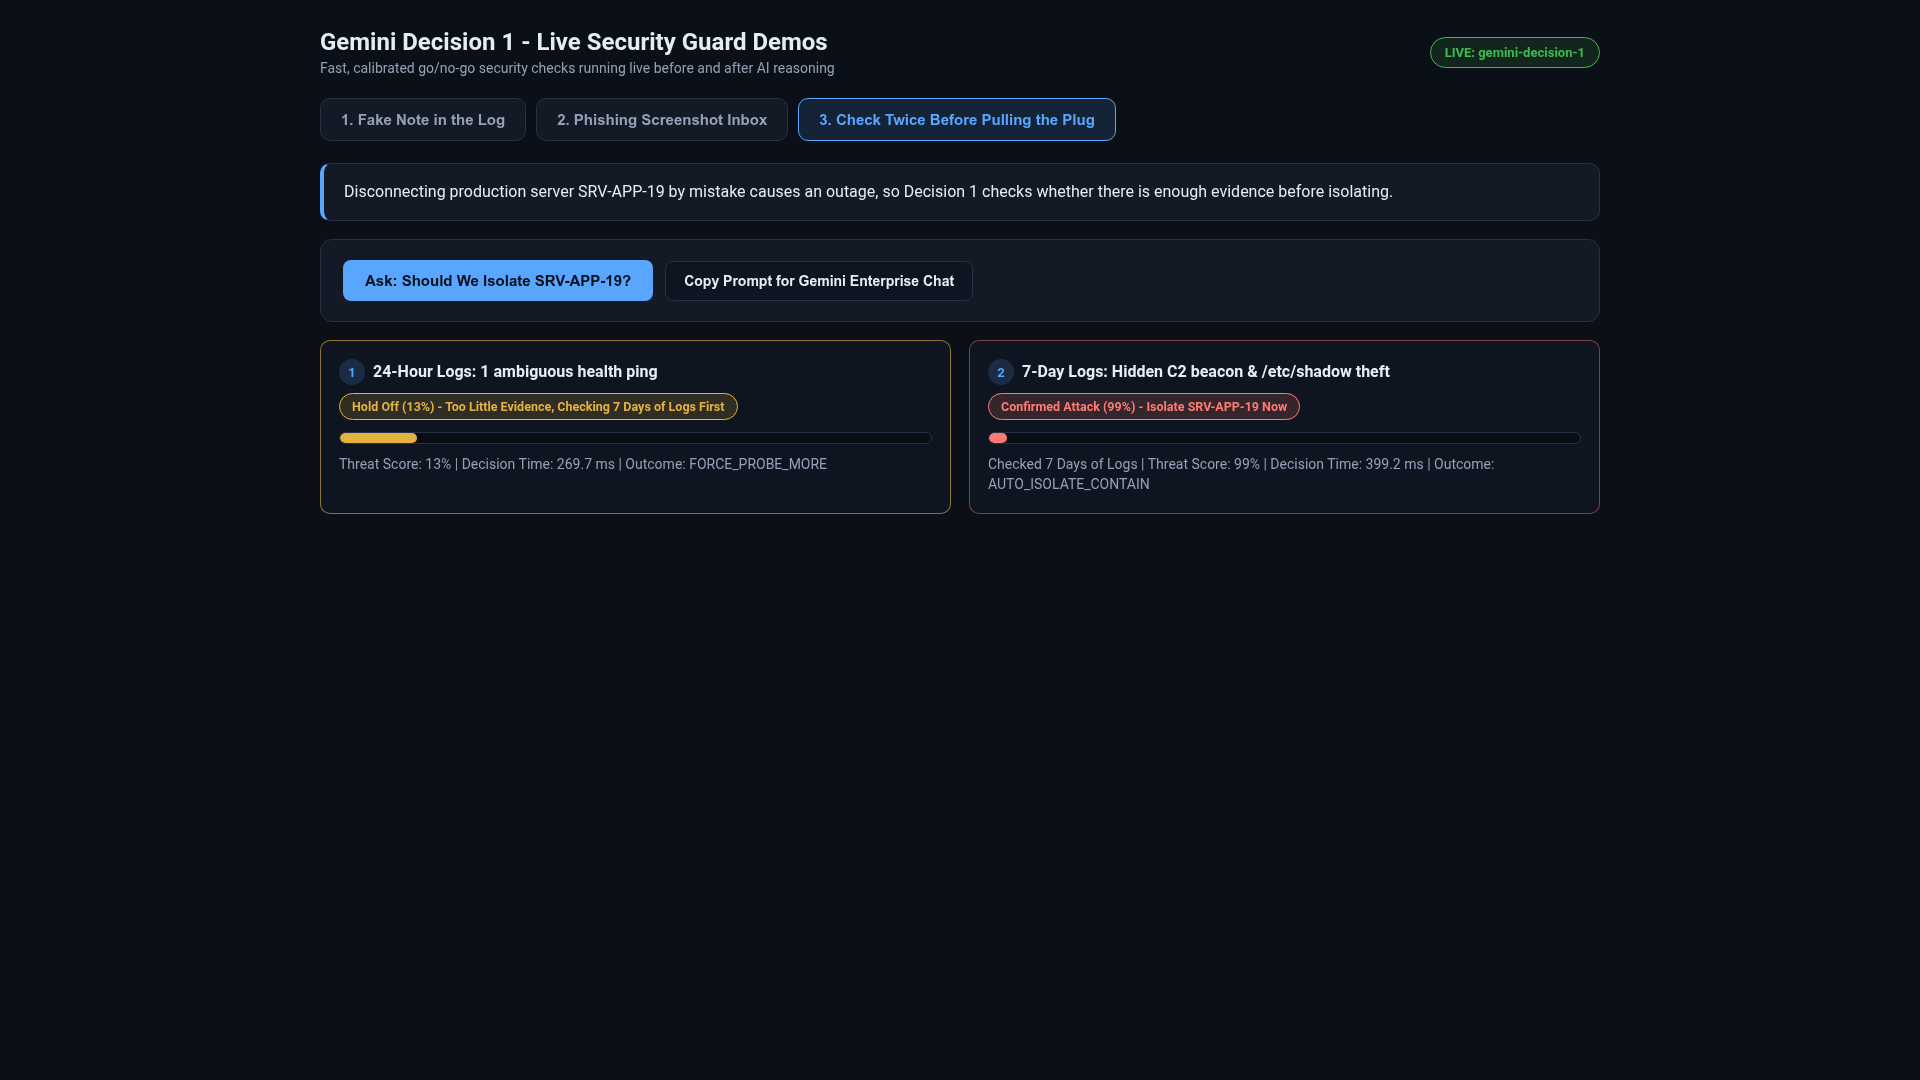
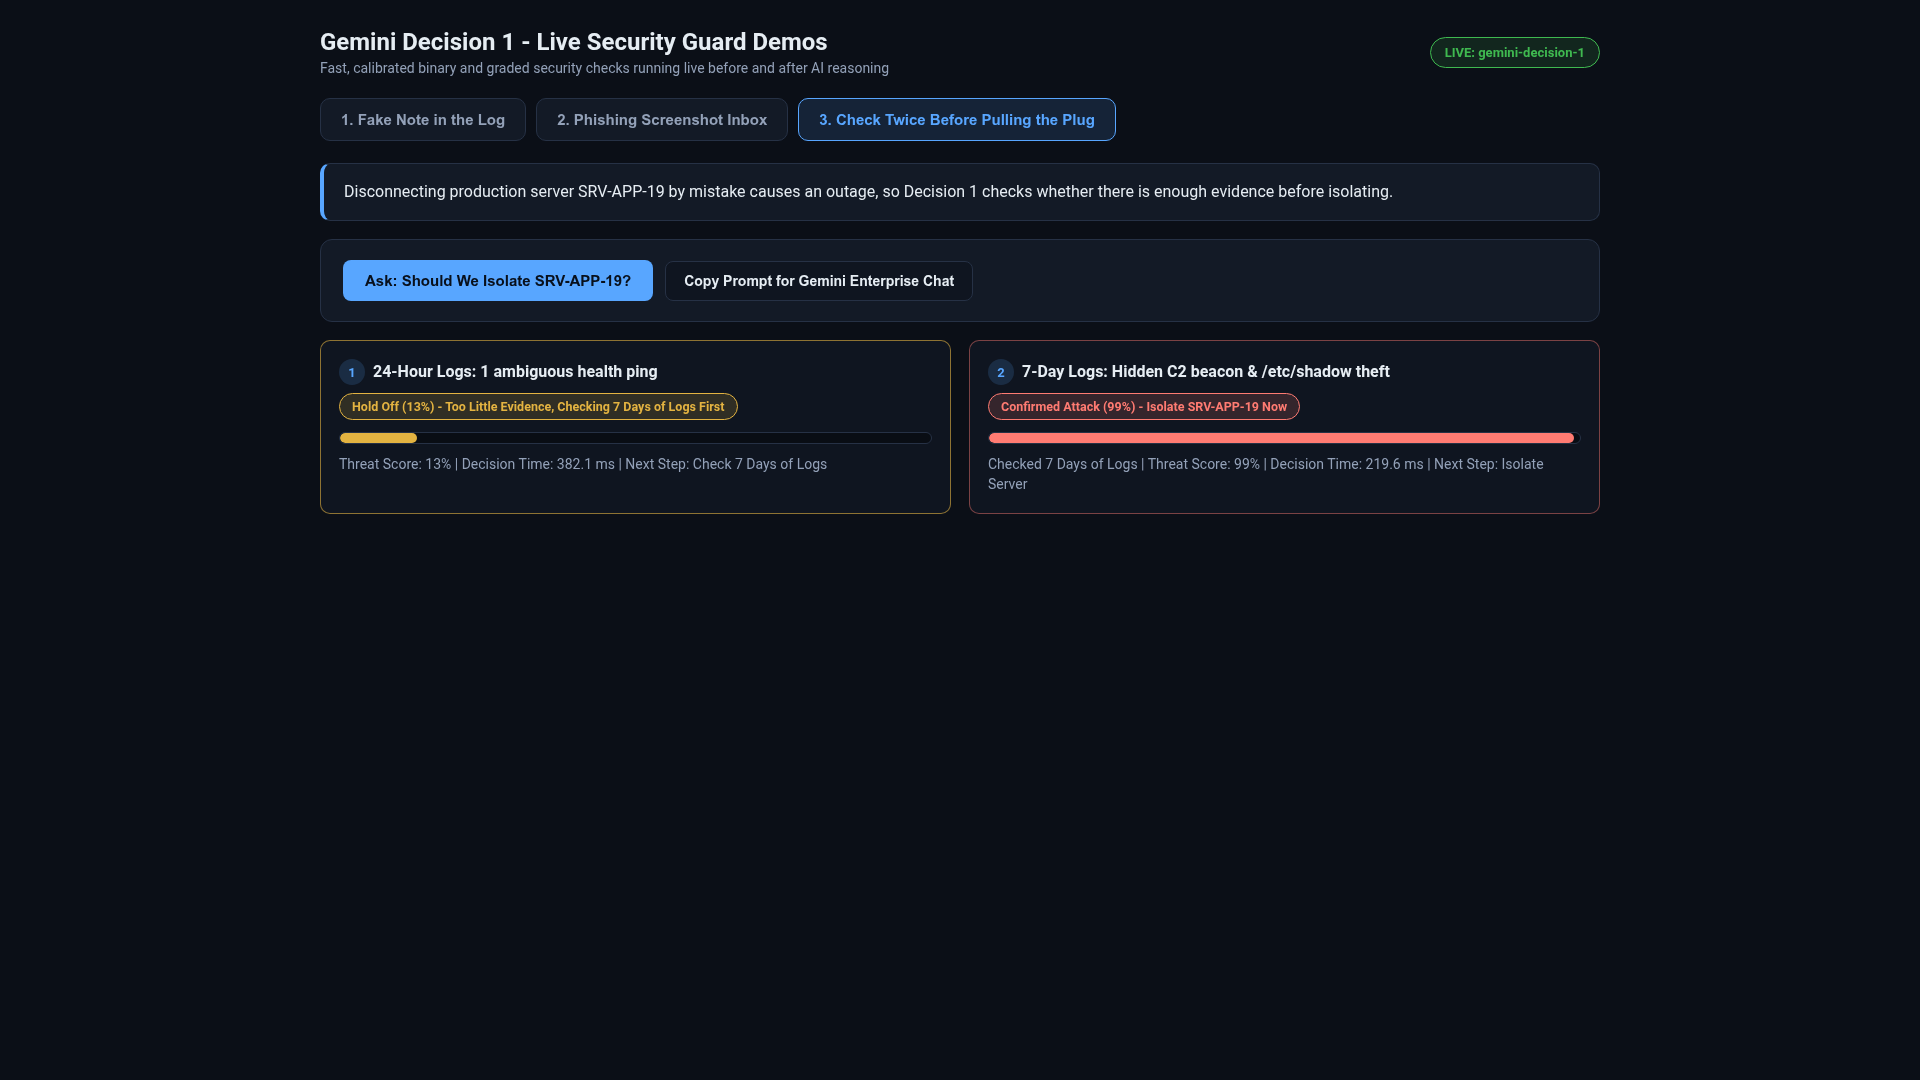
style(demos): polish Tab 3 threat bar width and plain-English labels

Changed region(s): [[0.5, 0.3972, 0.8125, 0.4583], [0.2188, 0.0611, 0.4688, 0.0917], [0.3438, 0.4278, 0.4375, 0.4583]]

diff --git a/scripts/governance/demos/simple_demos_app.py b/scripts/governance/demos/simple_demos_app.py
@@ -778,7 +778,7 @@ async function runDemo3() {{
       'Hold Off (' + c1.threat_pct + '%) - Too Little Evidence, Checking 7 Days of Logs First';
     document.getElementById('demo3-bar1').style.width = Math.max(c1.threat_pct, 4) + '%';
     document.getElementById('demo3-meta1').textContent =
-      'Threat Score: ' + c1.threat_pct + '% | Decision Time: ' + c1.latency_ms + ' ms | Outcome: ' + c1.action;
+      'Threat Score: ' + c1.threat_pct + '% | Decision Time: ' + c1.latency_ms + ' ms | Next Step: Check 7 Days of Logs';
 
     const card2 = document.getElementById('demo3-card2');
     const c2 = d.check2;
@@ -789,7 +789,7 @@ async function runDemo3() {{
         'Confirmed Attack (' + c2.threat_pct + '%) - Isolate SRV-APP-19 Now';
       document.getElementById('demo3-bar2').style.width = Math.max(c2.threat_pct, 4) + '%';
       document.getElementById('demo3-meta2').textContent =
-        'Checked 7 Days of Logs | Threat Score: ' + c2.threat_pct + '% | Decision Time: ' + c2.latency_ms + ' ms | Outcome: ' + c2.action;
+        'Checked 7 Days of Logs | Threat Score: ' + c2.threat_pct + '% | Decision Time: ' + c2.latency_ms + ' ms | Next Step: Isolate Server';
     }}, 350);
   }} finally {{
     btn.disabled = false;
